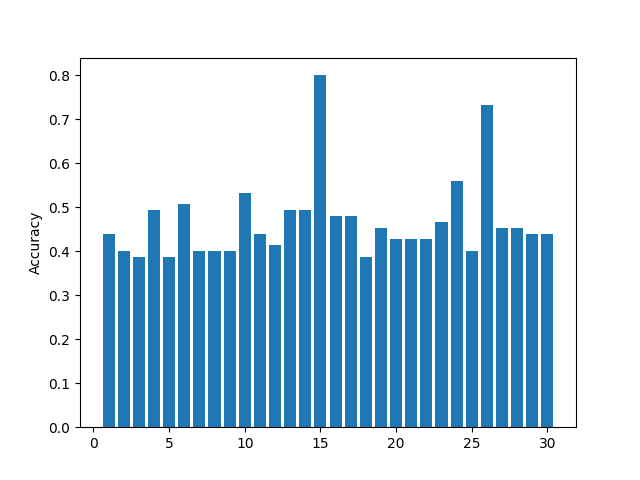
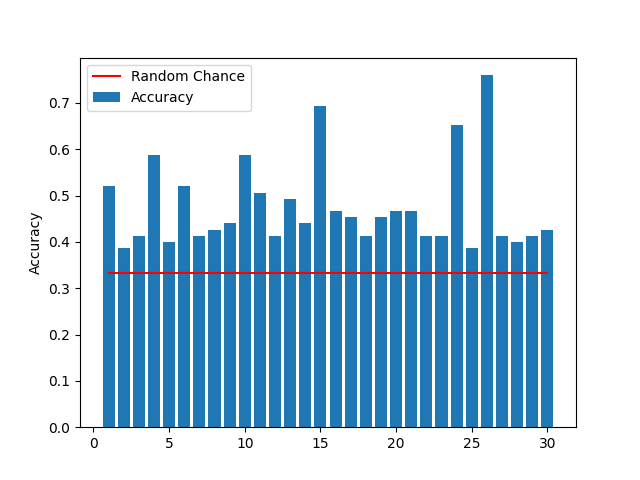
cleaning up code, running visualizations

diff --git a/home.py b/home.py
@@ -2,6 +2,14 @@ from Participant import Participant as p
 import numpy as np
 import matplotlib.pyplot as plt
 
+# Paths
+visualization_path = './Visualizations/'
+
+# Parameters
+num_participants = 30
+num_trials = 75
+k = 25
+
 # Run each participant as a separate set, getting the clustering accuracy for each and comparing it to the LOOCV accuracy
 def run_singles():
     # LOOCV: 0.826667, 0.533333, 0.573333, 0.960000, 0.53333, 0.786667, 0.760000, 0.746667, 0.666667, 0.853333
@@ -168,22 +176,42 @@ def visualize(x, y, cluster):
     plt.ylabel("Participant Number")
     plt.show()
 
+def plot_by_activity(participant, name):
+    nums = ["Right-Hand Tapping","Left-Hand Tapping","Foot Tapping"]
+    labels = participant.labels
+    clusters = participant.clusters
+
+    # Counting accuracy
+    count1_right = 0
+    count2_right = 0
+    count3_right = 0
+
+    for i in range(num_trials):
+        if(labels[i]==1 and clusters[i]==1): count1_right += 1
+        elif(labels[i]==2 and clusters[i]==2): count2_right += 1
+        elif(labels[i]==3 and clusters[i]==3): count3_right += 1
+    
+    # The study divides the activities evenly - each participant should have 25 right-hand, 25 left-hand, and 25 foot-tapping
+    count_arr = [count1_right/.25, count2_right/.25, count3_right/.25]
+    print(f"Accuracies by Activity for {participant.name}: {count_arr}")
+    plt.bar(nums, count_arr, alpha=0.7)
+    plt.xlabel("Activity")
+    plt.ylabel("Accuracy")
+    plt.savefig(f"{visualization_path}/{name}")
+    plt.clf()
+
 if __name__ == "__main__":
-    # Paths
-    visualization_path = './Visualizations/'
-
-    # Parameters
-    num_participants = 30
-    num_trials = 75
-
     # Gets array of all the individual participants clustered by trial
     ind_participants, ind_accuracies = run_singles()
 
-    # Graphs the accuracy for each partcipant
+    # Graphs the accuracy for each partcipant compared to random chance (they all beat random chance yay)
     fix, ax = plt.subplots()
     participants = np.linspace(1, num_participants, num=num_participants)
-    ax.bar(participants, ind_accuracies)
+    ax.bar(participants, ind_accuracies, label="Accuracy")
     ax.set_ylabel("Accuracy")
+    x1, y1 = [1, len(ind_participants)], [1/3, 1/3]
+    ax.plot(x1, y1, 'r', label="Random Chance")
+    ax.legend()
     plt.savefig(visualization_path + 'Accuracies by Individual Participant')
     plt.clf()
 
@@ -193,29 +221,10 @@ if __name__ == "__main__":
 
     # A Participant containing all trials, all channels, all participants. Cluster by trial
     all_array, labels_array = get_all_participants(ind_participants)
-
-    p1 = p("01")
-    p1_clust, p1_acc = p1.cluster()
-
-    # Plotting the accuracy by activity type
-    labels_array.reshape([1, len(ind_participants) * num_trials])
     all = p("all", fv=all_array, labels=labels_array)
     all.labels = labels_array
-    all_clusters, all_accuracy = all.cluster(100)
-    trials_array = np.tile(np.arange(1,76), 10)
-    particp_array = np.repeat(np.arange(1,11), 75)
-    count1_right = 0
-    count2_right = 0
-    count3_right = 0
-    for i in range(num_trials):
-        if(p1.labels[i]==1 and p1_clust[i]==1): count1_right+=1
-        elif(p1.labels[i]==2 and p1_clust[i]==2): count2_right+=1
-        elif(p1.labels[i]==3 and p1_clust[i]==3): count3_right+=1
-    #visualize(trials_array, particp_array, all_clusters)
-    nums = ["Right-Hand Tapping","Left-Hand Tapping","Foot Tapping"]
-    count_arr = [count1_right/.25, count2_right/.25, count3_right/.25]
-    print(count_arr)
-    plt.bar(nums, count_arr, alpha=0.7)
-    plt.xlabel("Action")
-    plt.ylabel("Percent Right")
-    plt.savefig(visualization_path + 'Accuracy by Activity Type')
+    all_clusters, all_accuracy = all.cluster(k)
+
+    # Plot the accuracy for all participants by activity
+    plot_by_activity(ind_participants[0], f'Accuracy for {ind_participants[0].name} by Activity')
+    plot_by_activity(all, 'Accuracy by Activity Type')

diff --git a/Participant.py b/Participant.py
@@ -152,65 +152,6 @@ class Participant:
 
         return centroids, clusters, rec_error
     
-    def kmeans_2D(self, df, k=3, tol=0.0001):
-        """
-        K-means clustering for 2D data.
-
-        Parameters:
-            df (numpy.ndarray): 2D numpy array with shape (n, 2), each row treated as a point.
-            k (int): Number of clusters.
-            tol (float): Tolerance for L_2 convergence check on centroids.
-
-        Returns:
-            centroids (numpy.ndarray): Array of centroids, one for each cluster.
-            clusters (numpy.ndarray): Cluster assignment for each point.
-            rec_error (float): Reconstruction error on final iteration.
-        """    
-        # Initialize reconstruction error for 1st iteration
-        prev_rec_error = np.inf
-        
-        # Random centroids from data
-        clocs = np.random.choice(df.shape[0], size=k, replace=False)
-        centroids = df[clocs, :].copy()
-        
-        # Initialize objects for points-cluster distances and cluster assignments.
-        dists = np.zeros((k, df.shape[0]))
-        clusters = np.array([-1] * df.shape[0])
-        
-        # Index and convergence trackers
-        ii = 0
-        Done = False
-        while not Done:
-            # Update classifications
-            for ji in range(k):
-                for pi in range(df.shape[0]):
-                    dists[ji, pi] = np.linalg.norm(df[pi, :] - centroids[ji, :])
-            
-            clusters = dists.argmin(axis=0)
-            
-            # Update centroids
-            for ji in range(k):
-                if np.sum(clusters == ji) > 0:
-                    centroids[ji, :] = np.mean(df[clusters == ji], axis=0)
-                else:
-                    # Reinitialize centroid if no points are assigned to prevent empty clusters
-                    centroids[ji, :] = df[np.random.choice(df.shape[0], size=1), :]
-
-            # Calculate Reconstruction Error    
-            rec_error = np.sum(np.min(dists, axis=0)**2) / df.shape[0]
-            
-            # Convergence check
-            change_in_error = np.abs(prev_rec_error - rec_error)
-            if change_in_error < tol:
-                Done = True
-            elif ii == 50:
-                Done = True
-            
-            prev_rec_error = rec_error
-            ii += 1
-        
-        return centroids, clusters, rec_error
-    
     # Checks the clusters from k-means against the ground truth data
     def accuracy_calculation(self, clusters, labels):
         if labels is None:
@@ -271,6 +212,6 @@ class Participant:
         self.clusters = clust_high
         self.accuracy = acc_high
 
-        print(f"The clustering accuracy is {self.accuracy * 100}")
+        print(f"The clustering accuracy for {self.name} is {self.accuracy * 100}")
 
         return self.clusters, self.accuracy
